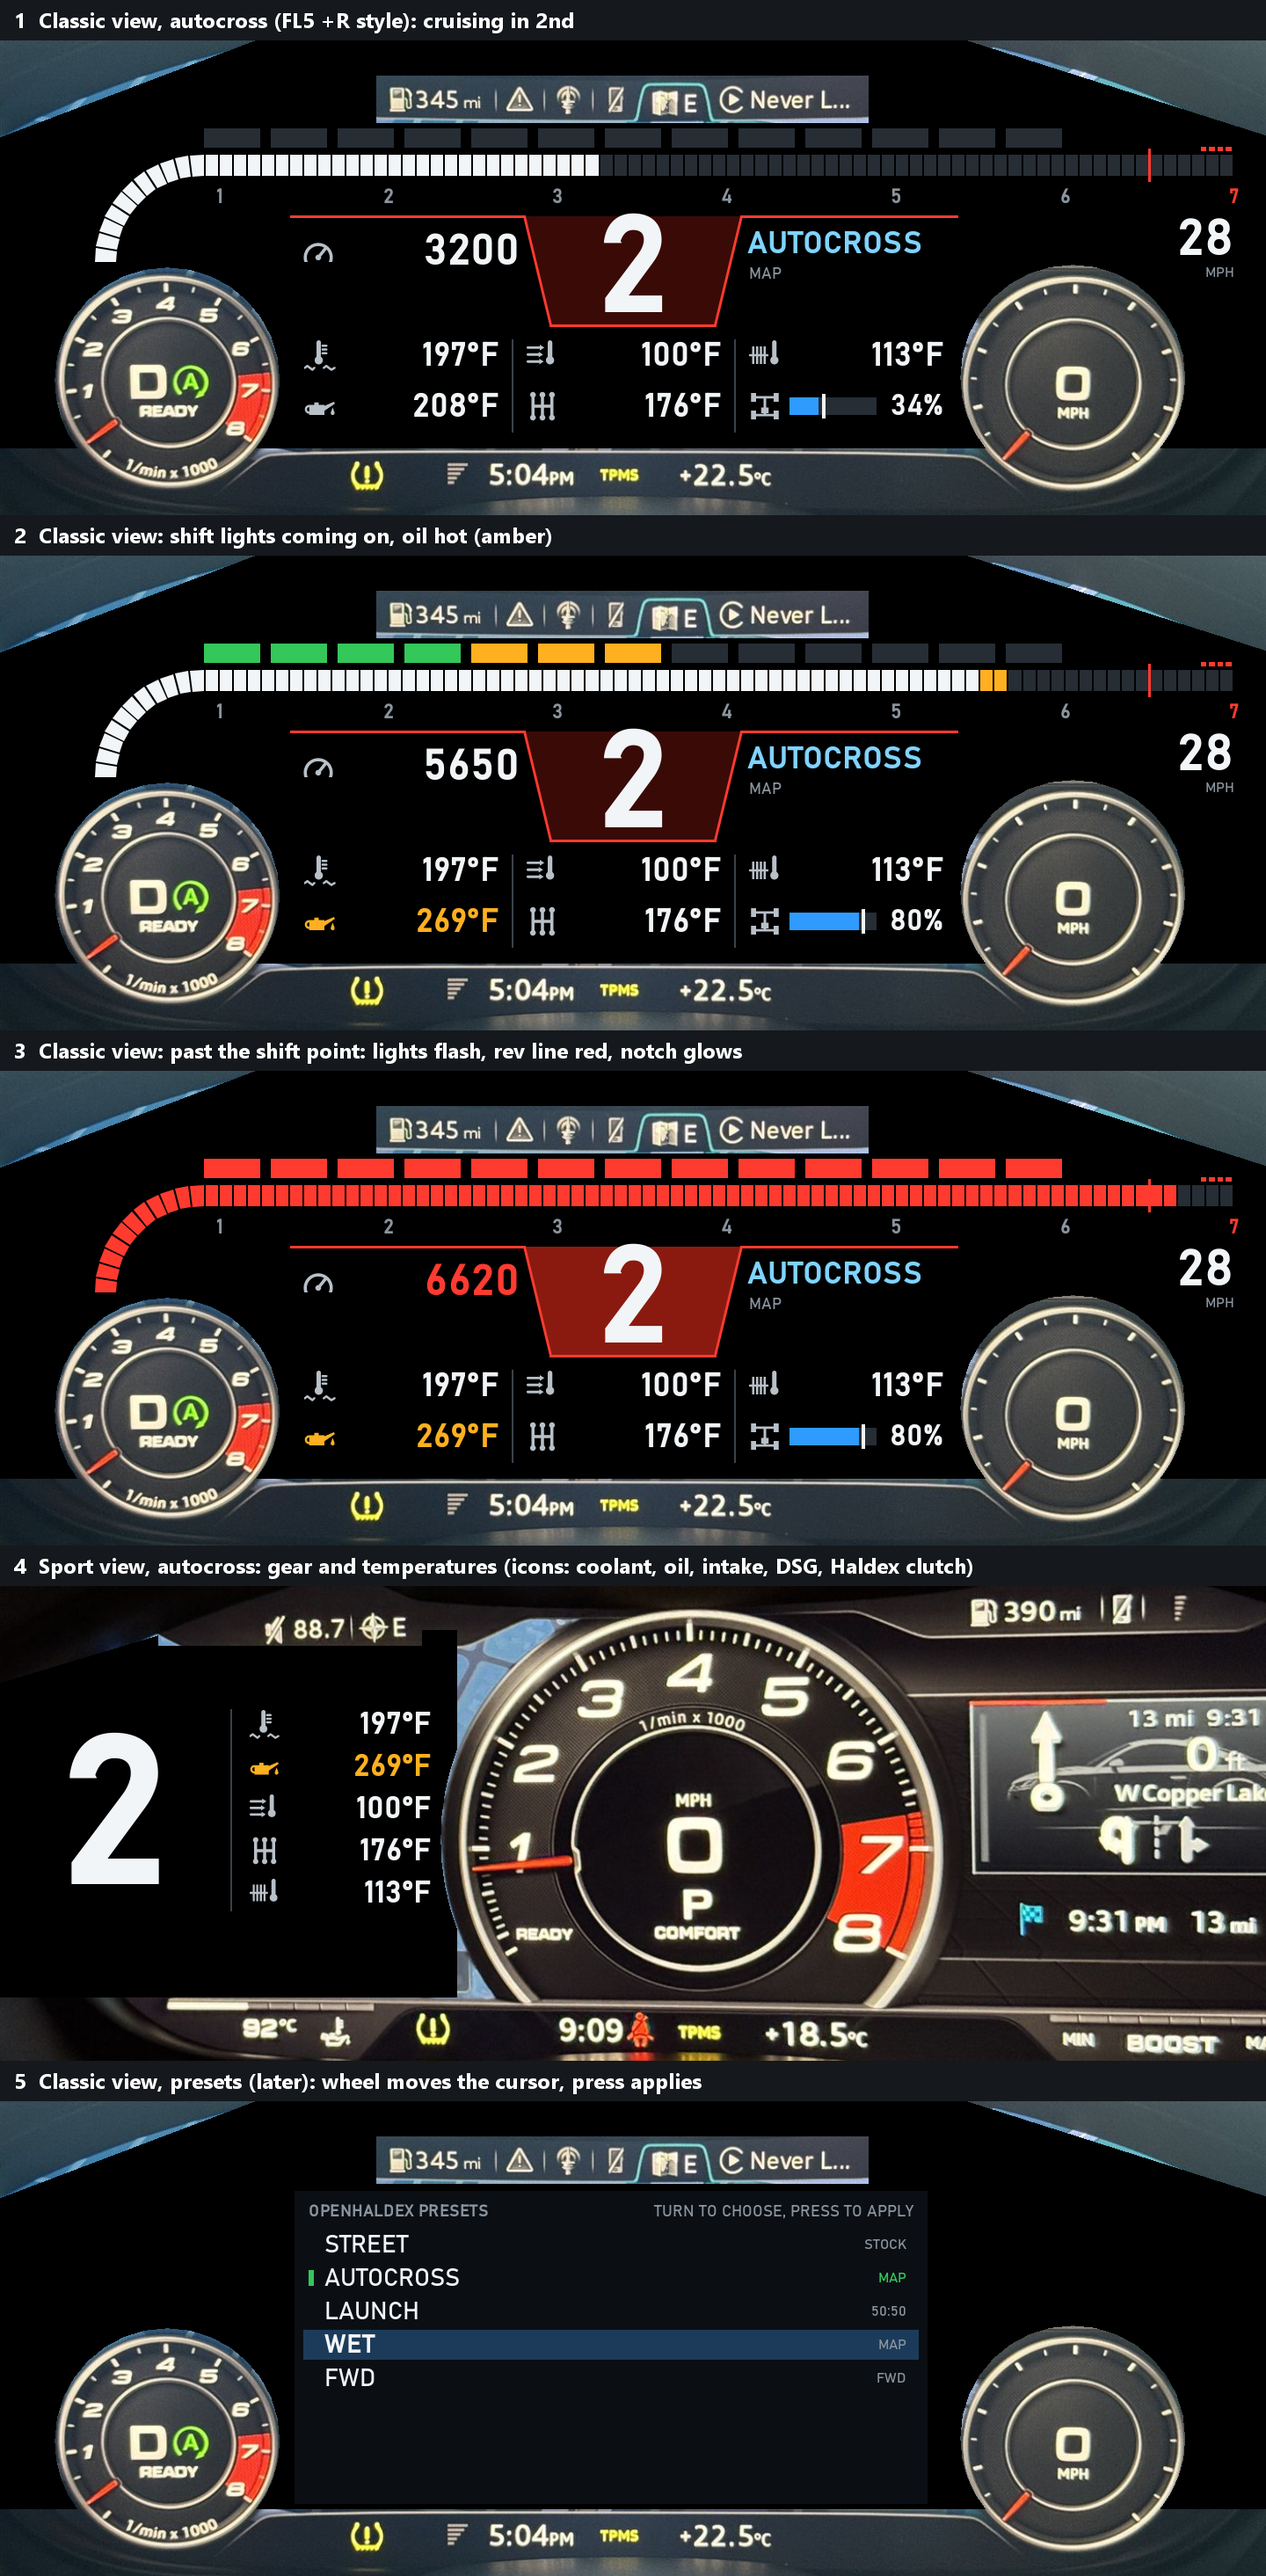
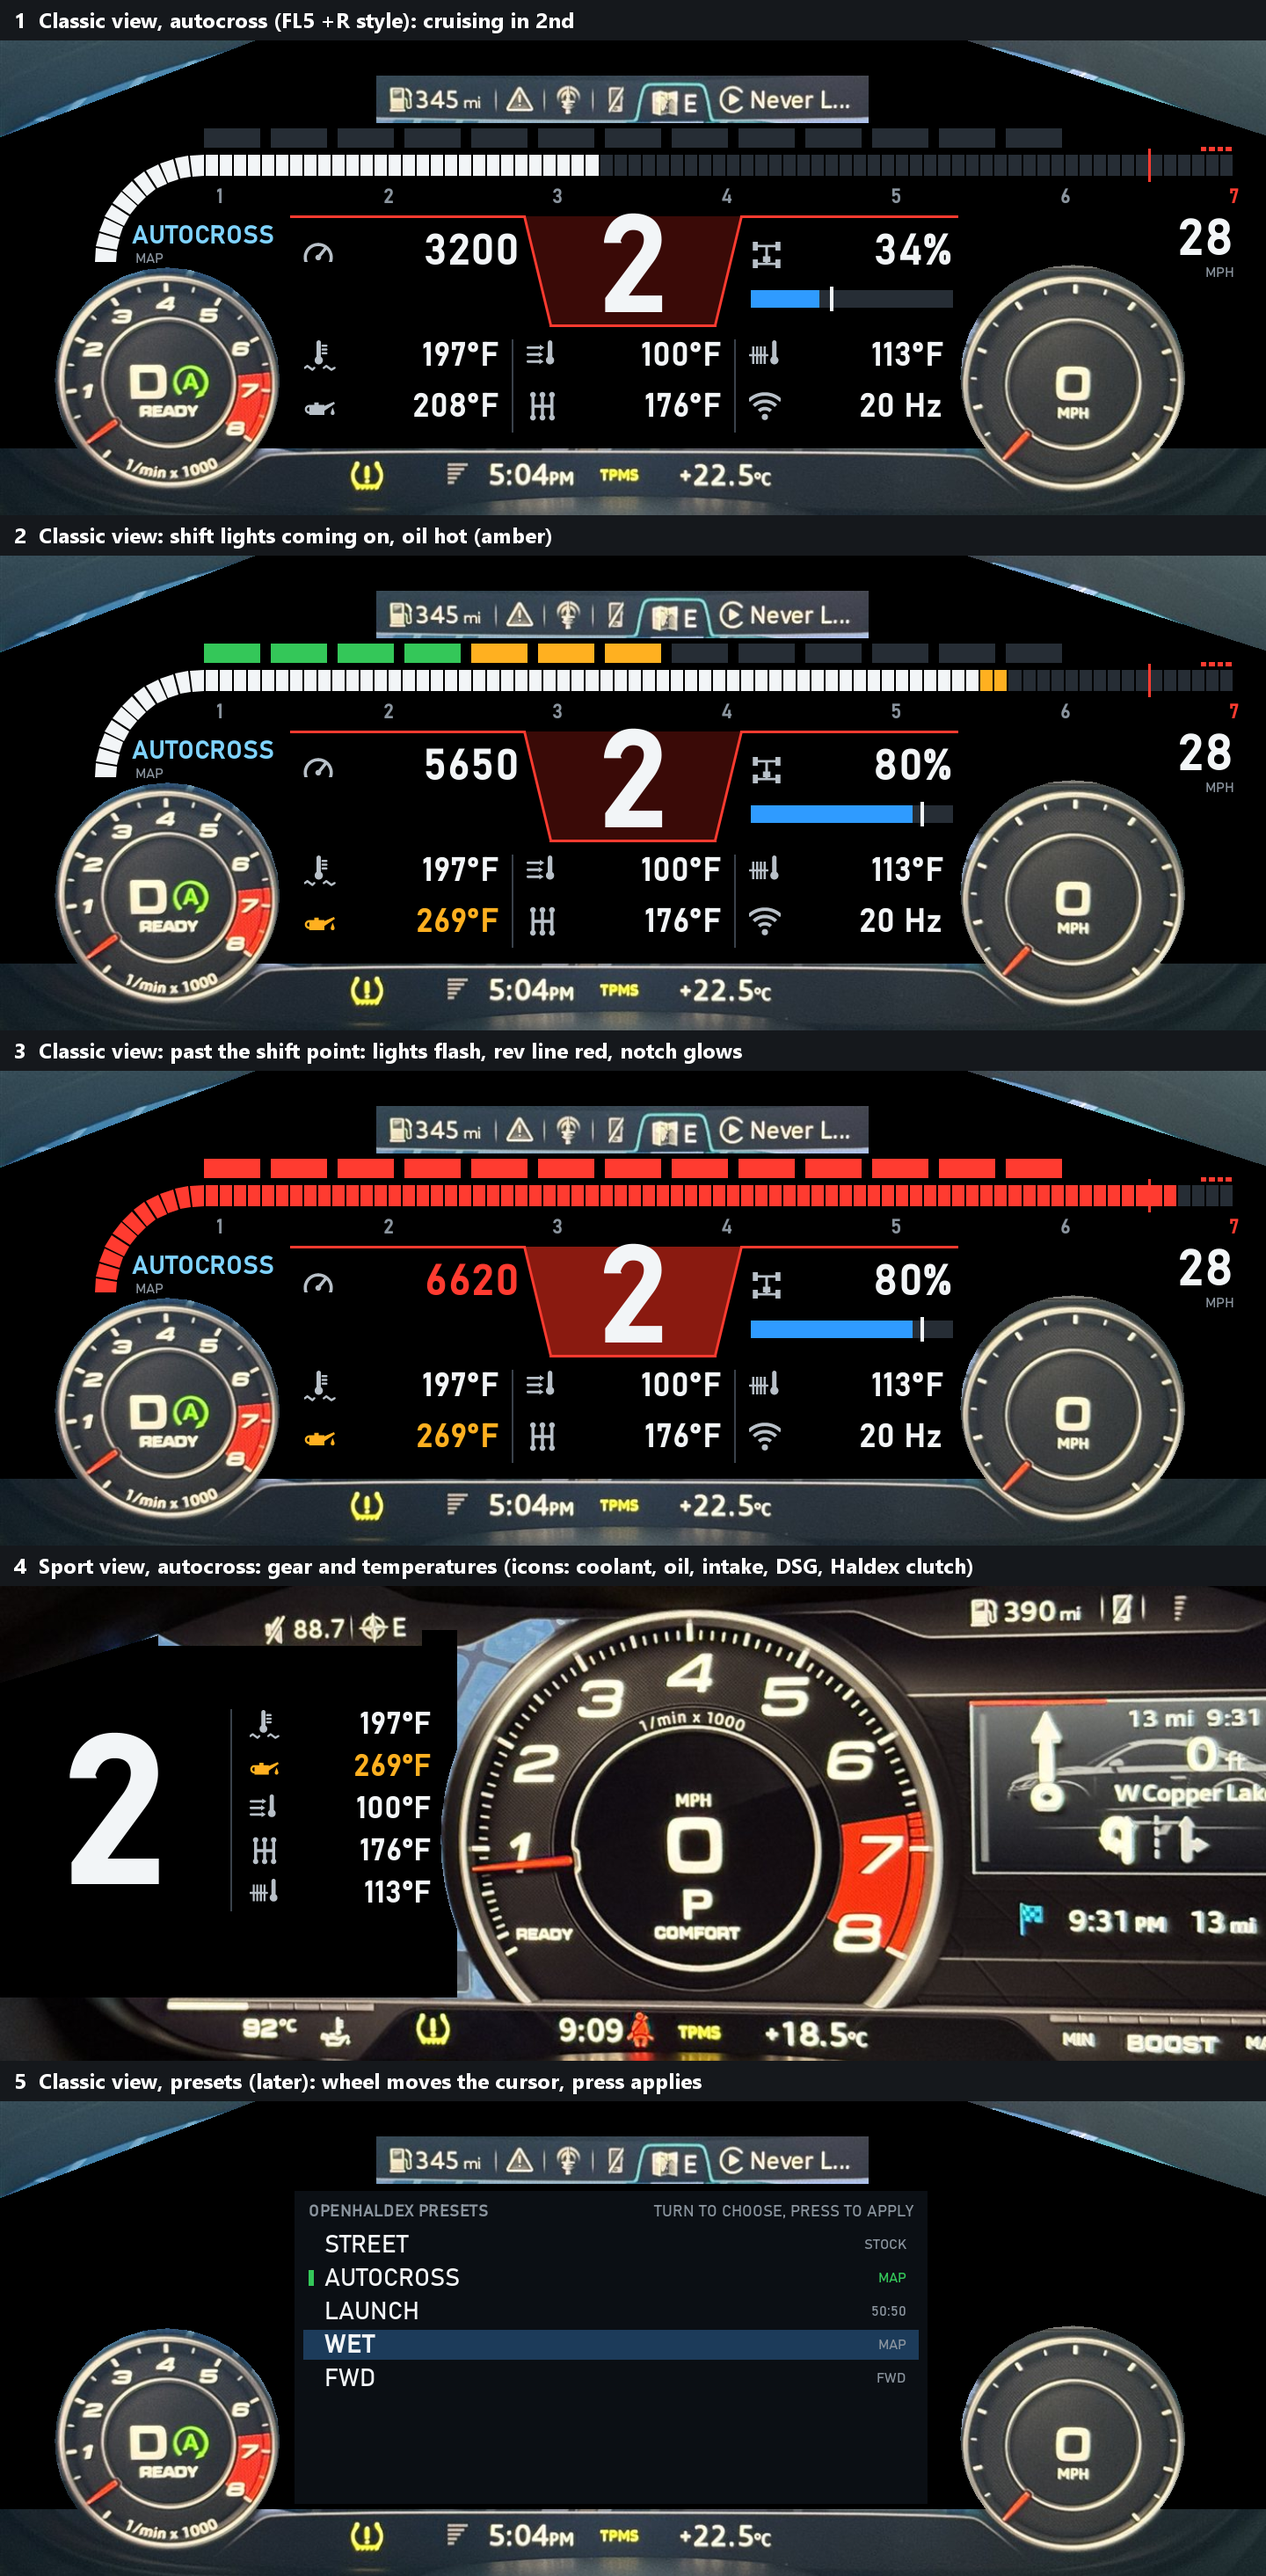
Telemetry: preset in the top-left pocket, Haldex beside the gear, link status cell

diff --git a/ports/tt-8s-mu1462/hmi/src/local/tt/TeleLayout.java b/ports/tt-8s-mu1462/hmi/src/local/tt/TeleLayout.java
@@ -9,8 +9,10 @@ package local.tt;
  * layout keeps clear of them.
  *  - Large (Classic) view, after the FL5 Civic Type R's +R screen: shift lights under the tab bar;
  *    a rev line that rises from the lower left and runs across the top, numbers under it; a red
- *    line across with a notch in the middle holding a big gear; rpm left of the notch, the active
- *    preset right of it, speed top right; telemetry in a grid at the bottom, one icon per value.
+ *    line across with a notch in the middle holding a big gear; rpm left of the notch, Haldex lock
+ *    right of it; the active preset in the pocket inside the rev line's bend (top left), speed top
+ *    right (the very top corners are covered by the cluster's frame); temperatures and link status
+ *    in a grid at the bottom, one icon per value.
  *  - Small (Sport) view: only the map area left of the big rev counter is ours: gear and engine
  *    temperatures, one icon per value.
  *
@@ -130,6 +132,8 @@ public final class TeleLayout {
     public int cursor;
     public String status;
     public int statusRgba = GREY;
+    /** Datagrams per second from OpenHaldex, -1 if unknown. */
+    public int rateHz = -1;
 
     // Output
     public int count;
@@ -241,12 +245,16 @@ public final class TeleLayout {
         int gc = !link ? GREY : limit && !blink ? RED : WHITE; // the notch carries the shift cue
         text(720, 186, 150, true, CENTER, gc, gear(), true);
 
-        // Left of the notch: rpm. Right of it: the active preset and its mode.
+        // Top-left pocket, inside the bend of the rev line: the active preset and its mode.
+        text(150, 208, 28, true, LEFT, link ? PRESET : GREY, presetName(), true);
+        text(154, 240, 16, false, LEFT, GREY, presetMode(), true);
+
+        // Left of the notch: rpm. Right of it: Haldex lock, big percent over a bar with target tick.
         icon(GRID_X0 + 14, 226, 36, TeleIcons.TACH, ICONC, true);
         text(NOTCH_X0 - 6, 216, 48, true, RIGHT, over ? RED : vc, ok(CH_RPM) ? Integer.toString(rpm) : "-", link);
         text(NOTCH_X0 - 6, 216, 34, true, RIGHT, AMBER, "NO LINK", !link);
-        text(NOTCH_X1 + 6, 214, 34, true, LEFT, link ? PRESET : GREY, presetName(), true);
-        text(NOTCH_X1 + 8, 256, 18, false, LEFT, GREY, presetMode(), true);
+        icon(NOTCH_X1 + 10, 226, 36, TeleIcons.AWD, ICONC, true);
+        hxBar(NOTCH_X1 + 10, 284, GRID_X1 - NOTCH_X1 - 16, 20, GRID_X1 - 6, 216, 48);
 
         // Telemetry grid: 3 columns x 2 rows, an icon and a value in each cell.
         int cw = (GRID_X1 - GRID_X0) / 3;
@@ -260,11 +268,22 @@ public final class TeleLayout {
             int yy = GRID_Y + row * GRID_ROW;
             tempCell(order[n], cx0 + 16, cx0 + cw - 16, yy, 36, 36, rpm);
         }
-        // Last cell: Haldex lock, bar with target tick and percent.
+        // Last cell: the link to OpenHaldex, datagrams per second.
         int cx0 = GRID_X0 + 2 * cw;
         int yy = GRID_Y + GRID_ROW;
-        icon(cx0 + 16, yy, 36, TeleIcons.AWD, ICONC, true);
-        hxBar(cx0 + 62, yy + 8, cw - 62 - 92, 20, cx0 + cw - 16, 32);
+        boolean slow = link && rateHz >= 0 && rateHz < 10;
+        icon(cx0 + 16, yy, 36, TeleIcons.WIFI, link && !slow ? ICONC : AMBER, true);
+        text(cx0 + cw - 16, yy, 36, true, RIGHT, link && !slow ? WHITE : AMBER, linkText(), true);
+    }
+
+    private String linkText() {
+        if (!link)
+            return "NO LINK";
+        if (rateHz < 0)
+            return "OK";
+        StringBuffer sb = new StringBuffer();
+        sb.append(rateHz).append(" Hz");
+        return sb.toString();
     }
 
     private void liveSmall() {
@@ -301,14 +320,14 @@ public final class TeleLayout {
         text(x1, yy + (is - vs) / 2, vs, true, RIGHT, c, v, true);
     }
 
-    private void hxBar(int x0, int y0, int bw, int bh, int rx, int ps) {
+    /** Haldex lock bar with target tick at (x0, y0); actual percent right-aligned at (rx, ry). */
+    private void hxBar(int x0, int y0, int bw, int bh, int rx, int ry, int ps) {
         int act = ok(CH_HX_ACTUAL) ? clamp(r(val[CH_HX_ACTUAL]), 0, 100) : 0;
         int tgt = ok(CH_HX_TARGET) ? clamp(r(val[CH_HX_TARGET]), 0, 100) : 0;
         box(x0, y0, bw, bh, DIM, true);
         box(x0, y0, bw * act / 100, bh, link ? HALDEX : GREY, act > 0);
         box(x0 + bw * tgt / 100 - 2, y0 - 4, 4, bh + 8, WHITE, ok(CH_HX_TARGET));
-        text(rx, y0 + (bh - ps) / 2, ps, true, RIGHT, link ? WHITE : GREY,
-            ok(CH_HX_ACTUAL) ? percent(act) : "-", true);
+        text(rx, ry, ps, true, RIGHT, link ? WHITE : GREY, ok(CH_HX_ACTUAL) ? percent(act) : "-", true);
     }
 
     private void presets(boolean large) {

diff --git a/ports/tt-8s-mu1462/hmi/src/local/tt/TeleIcons.java b/ports/tt-8s-mu1462/hmi/src/local/tt/TeleIcons.java
@@ -15,16 +15,18 @@ public final class TeleIcons {
     public static final int CLUTCH = 4;
     public static final int AWD = 5;
     public static final int TACH = 6;
-    public static final int COUNT = 7;
+    public static final int WIFI = 7;
+    public static final int COUNT = 8;
 
     // Shape ops. CAP x0 y0 x1 y1 r (thick line, round ends) | CIRC x y r | RECT x0 y0 x1 y1 |
-    // POLY n x0 y0 ... | CUT_CIRC x y r | CUT_RECT x0 y0 x1 y1
+    // POLY n x0 y0 ... | CUT_CIRC x y r | CUT_RECT x0 y0 x1 y1 | CUT_POLY n x0 y0 ...
     private static final float CAP = 0;
     private static final float CIRC = 1;
     private static final float RECT = 2;
     private static final float POLY = 3;
     private static final float CUT_CIRC = 4;
     private static final float CUT_RECT = 5;
+    private static final float CUT_POLY = 6;
 
     private static final float[][] ICONS = {
         // COOLANT: thermometer with scale marks, waves either side of the bulb
@@ -53,6 +55,11 @@ public final class TeleIcons {
         // TACH: dial arc with a needle
         {CIRC, 50, 58, 46, CUT_CIRC, 50, 58, 36, CUT_RECT, 0, 72, 100, 100,
             CAP, 50, 58, 74, 28, 5, CIRC, 50, 58, 9},
+        // WIFI: three arcs over a dot
+        {CIRC, 50, 84, 78, CUT_CIRC, 50, 84, 67, CIRC, 50, 84, 55, CUT_CIRC, 50, 84, 44,
+            CIRC, 50, 84, 32, CUT_CIRC, 50, 84, 21,
+            CUT_POLY, 4, 50, 84, 0, 34, 0, 100, 50, 100, CUT_POLY, 4, 50, 84, 100, 34, 100, 100, 50, 100,
+            CIRC, 50, 84, 10},
     };
 
     private TeleIcons() {
@@ -103,7 +110,7 @@ public final class TeleIcons {
             } else {
                 int n = (int) o[i + 1];
                 if (polyHit(o, i + 2, n, u, v))
-                    in = true;
+                    in = op == (int) POLY;
                 i += 2 + 2 * n;
             }
         }

diff --git a/ports/tt-8s-mu1462/gauges/tools/TelePreview.java b/ports/tt-8s-mu1462/gauges/tools/TelePreview.java
@@ -99,6 +99,7 @@ public class TelePreview {
     private static TeleLayout base() {
         TeleLayout t = new TeleLayout();
         t.link = true;
+        t.rateHz = 20;
         set(t, TeleLayout.CH_COOLANT, 92);
         set(t, TeleLayout.CH_OIL, 98);
         set(t, TeleLayout.CH_IAT, 38);

diff --git a/ports/tt-8s-mu1462/wiki/Telemetry.md b/ports/tt-8s-mu1462/wiki/Telemetry.md
@@ -195,9 +195,12 @@ wsl -d Ubuntu-24.04 -u root -- sh -c 'cd /mnt/c/.../gauges/headunit && docker ru
     across under them, 24 px thick, 1..7 under it (white, amber in the last 1000 rpm before the shift point,
     all red from it, flashing at the limiter; red marks over the limiter range, red tick at the
     shift point). A red line across with a notch in the middle holding the gear; the notch glows
-    brighter from the shift point. Rpm left of the notch, the active preset and its mode right of
-    it, speed top right. A 3 x 2 telemetry grid at the bottom, one icon per value, no labels:
-    coolant, oil, intake, DSG, Haldex clutch temperature, Haldex lock bar with target tick.
+    brighter from the shift point. Rpm left of the notch; Haldex lock right of it (big percent over
+    a bar with the target tick). The very top corners of the screen are covered by the cluster's
+    frame, but two pockets below it are free: the active preset and its mode sit inside the bend of
+    the rev line (top left), speed top right. A 3 x 2 grid at the bottom, one icon per value, no
+    labels: coolant, oil, intake, DSG, Haldex clutch temperature, and the link (datagrams per
+    second, amber under 10 Hz, "NO LINK" when nothing arrives).
     Values turn amber or red out of range, blue when the oil is cold. No G-meter, no stopwatch.
   - Sport view: gear and the five temperatures with icons, in the map area left of the rev counter.
   - Defaults (user, 2026-11-23): shift 6500, limiter 6800, imperial.
